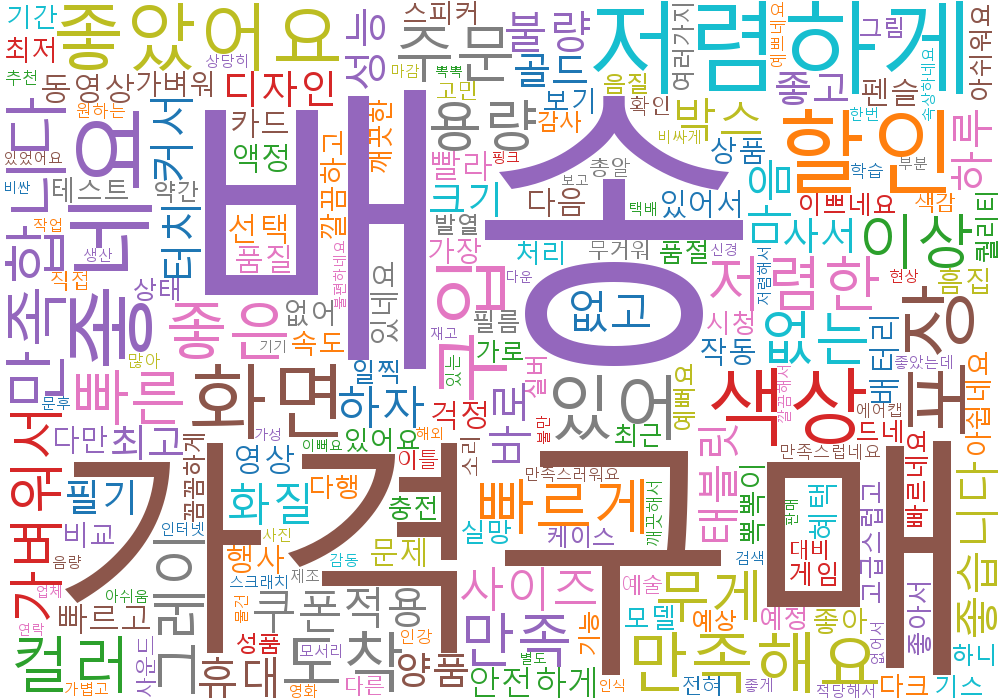
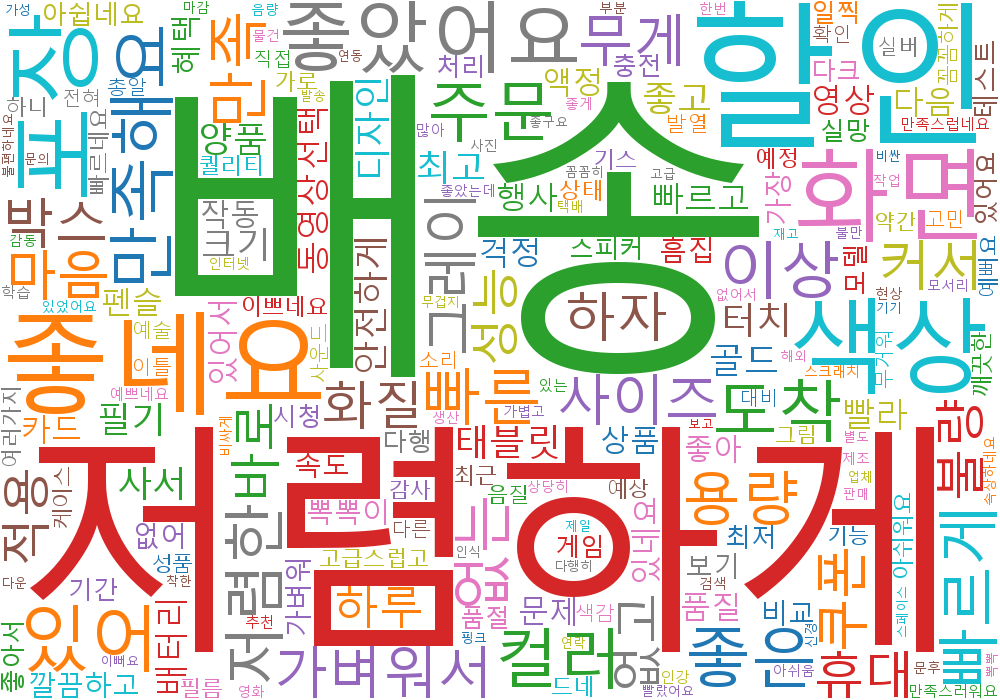
워드 클라우드
불용어 추가, 원형 처리 주석으로 추가

diff --git a/model_server/utils/generate_wordcloud_from_db.py b/model_server/utils/generate_wordcloud_from_db.py
@@ -132,20 +132,35 @@ def generate_wordcloud_from_db(product_id: int, domain="steam"):
             
             for part_idx, text_part in enumerate(text_parts):
                 try:
+                    ## 원형 처리 x 버전
                     part_tokens = [
                         t for t, pos in okt.pos(text_part) 
                         if pos in ["Noun", "Adjective"] and len(t) > 1
                     ]
+                    all_tokens.extend(part_tokens)
+                    ## 원형 처리 버전
+                    # part_tokens = []
+                    # morphs = okt.pos(text_part, stem=True)
+                    # for t, pos in morphs:
+                    #     if pos in ["Noun", "Adjective"] and len(t) > 1: # ["Noun", "Adjective", "Verb"]
+                    #         part_tokens.append(t)
                     all_tokens.extend(part_tokens)
                 except Exception as e:
                     print(f"⚠ 배치 {i//REVIEW_BATCH_SIZE + 1}의 부분 {part_idx + 1} 처리 중 오류 (건너뜀): {e}")
                     continue
         else:
             try:
+                ## 원형 처리 x 버전
                 batch_tokens = [
                     t for t, pos in okt.pos(batch_text) 
                     if pos in ["Noun", "Adjective"] and len(t) > 1
                 ]
+                ## 원형 처리 버전
+                # batch_tokens = []
+                # morphs = okt.pos(batch_text, stem=True)
+                # for t, pos in morphs:
+                #     if pos in ["Noun", "Adjective"] and len(t) > 1: # ["Noun", "Adjective", "Verb"]
+                #         batch_tokens.append(t)
                 all_tokens.extend(batch_tokens)
             except Exception as e:
                 print(f"⚠ 배치 {i//REVIEW_BATCH_SIZE + 1} 처리 중 오류 (건너뜀): {e}")
@@ -286,7 +301,7 @@ if __name__ == "__main__":
     from utils.db_connect import init_db_pool, close_db_pool
     
     # 테스트용 product_id
-    product_id = int(sys.argv[1]) if len(sys.argv) > 1 else 1008
+    product_id = int(sys.argv[1]) if len(sys.argv) > 1 else 1038
     domain = sys.argv[2] if len(sys.argv) > 2 else "electronics"
     
     try:
